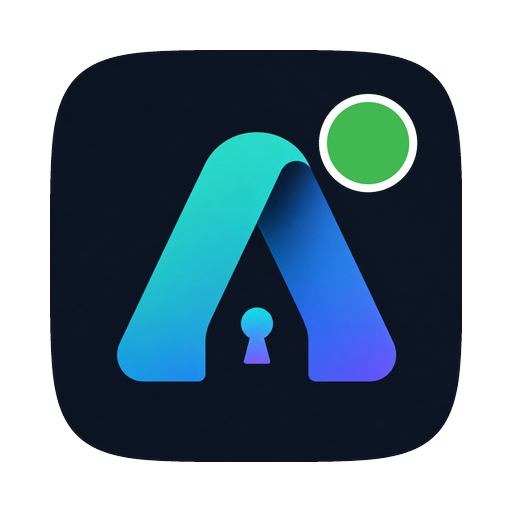
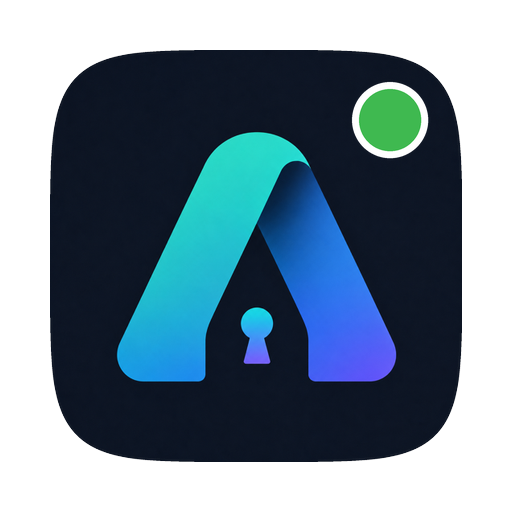
fix(dockstatus): ack 'done' when AirLock is already focused + smaller corner dot
- watch.ts recompute: if an AirLock window is focused RIGHT NOW, bump ackAt so a
  session finishing while you're looking goes straight to idle instead of showing
  green until you re-focus (onFocus only fired on the focus transition).
- icons: smaller dot (outer r 49->38), moved into the top-right corner so it no
  longer overlaps the A logo.

Changed region(s): [[0.625, 0.1562, 0.8438, 0.375]]

diff --git a/packages/app/src/main/dockstatus/watch.ts b/packages/app/src/main/dockstatus/watch.ts
@@ -4,7 +4,7 @@
 import { readdir, readFile } from "node:fs/promises";
 import path from "node:path";
 import { type FSWatcher, watch } from "chokidar";
-import { app } from "electron";
+import { app, BrowserWindow } from "electron";
 import {
   aggregateDockState,
   parseSessionLine,
@@ -35,6 +35,11 @@ async function recompute(): Promise<void> {
   } catch {
     // dir vanished between event and read; treat as no sessions
   }
+  // If an AirLock window is focused RIGHT NOW, treat any "done" as already seen:
+  // a session finishing while you're looking should go straight to idle, not
+  // flash green until you re-focus. (onFocus only fires on the focus transition,
+  // so being already-there wasn't acknowledged without this.)
+  if (BrowserWindow.getFocusedWindow()) ackAt = nowSec();
   paintDock(aggregateDockState(entries, ackAt, nowSec()), iconsDirRef);
 }
 
